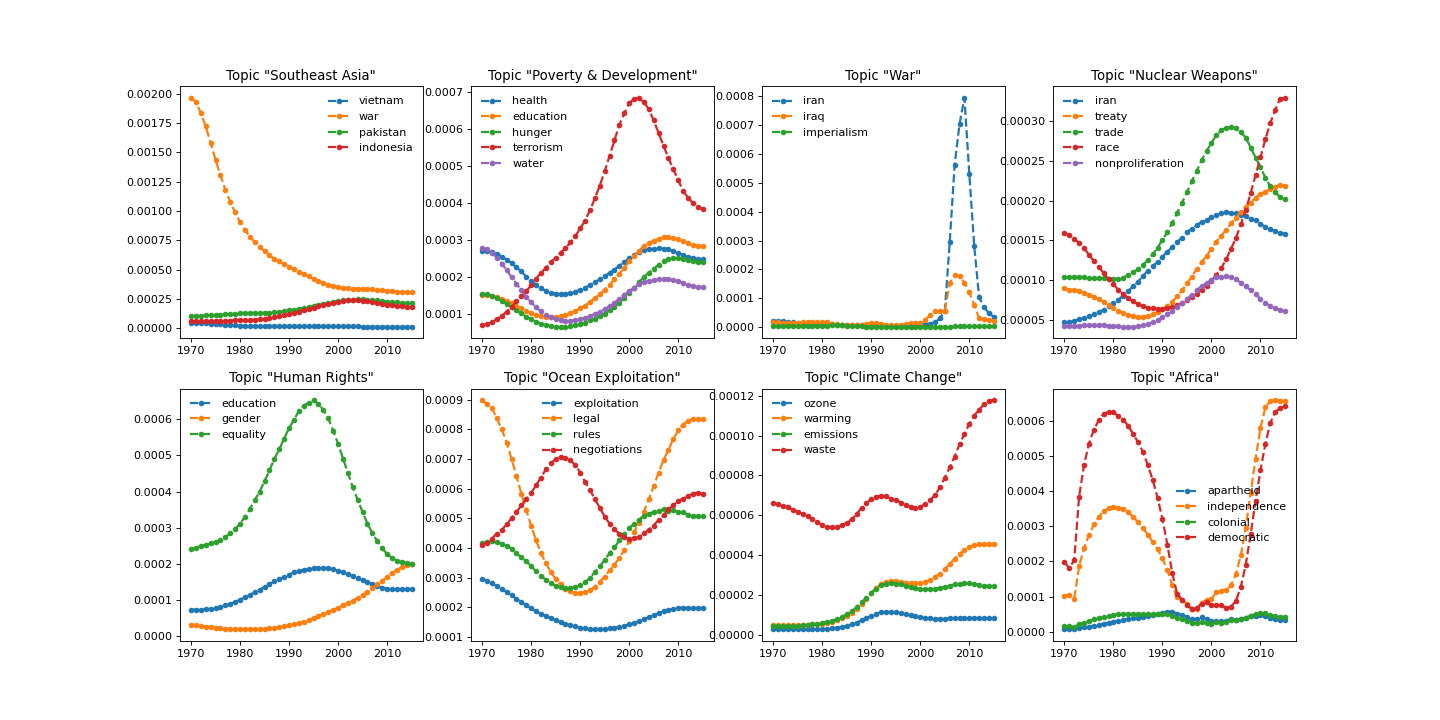
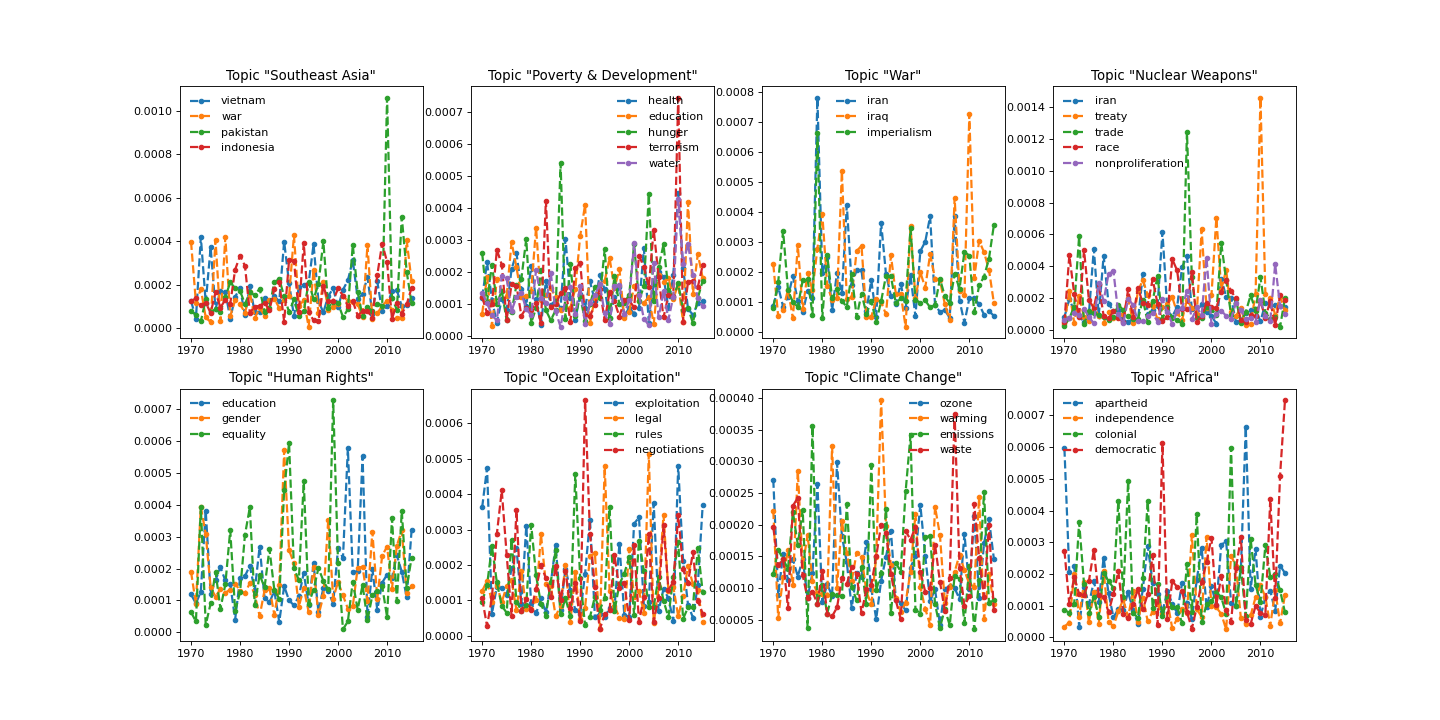
un updates

diff --git a/{DEP}plot_word_evo_un.py b/{DEP}plot_word_evo_un.py
@@ -12,7 +12,7 @@ import numpy as np
 beta = scipy.io.loadmat('./results/remoteresults/detm_un_K_50_Htheta_800_Optim_adam_Clip_0.0_ThetaAct_relu_Lr_0.0001_Bsz_1000_RhoSize_300_L_3_minDF_100_trainEmbeddings_1_beta.mat')['values'] ## K x T x V  #MODIFICATION
 print('beta: ', beta.shape)
 
-with open('data/un/split_paragraph_1/min_df_30/timestamps.pkl', 'rb') as f: #MODIFICATION 'un' -> 'data/un/split_paragraph_1'
+with open('data/un/split_paragraph_1/min_df_100/timestamps.pkl', 'rb') as f: #MODIFICATION 'un' -> 'data/un/split_paragraph_1'
     timelist = pickle.load(f)
 print('timelist: ', timelist)
 T = len(timelist)
@@ -20,19 +20,19 @@ ticks = [str(x) for x in timelist]
 print('ticks: ', ticks)
 
 ## get vocab
-data_file = 'data/un/split_paragraph_1/min_df_30' #MODIFICATION 'un' -> 'data/un/split_paragraph_1'
+data_file = 'data/un/split_paragraph_1/min_df_100' #MODIFICATION 'un' -> 'data/un/split_paragraph_1'
 vocab, train, valid, test = data.get_data(data_file, temporal=True)
 vocab_size = len(vocab)
 
 ## plot topics 
-num_words = 10 #10 -> 5
-times = [40] #40 -> 30
+num_words = 20 #10 -> 5
+times = [0, 30, 40] #40 -> 30
 num_topics = 50
 for k in range(num_topics):
     for t in times:
         gamma = beta[k, t, :]
         top_words = list(gamma.argsort()[-num_words+1:][::-1])
-        print(f"length of vocab:{0}, length of top_words:{1}".format(len(vocab), len(top_words)))
+        #print(f"length of vocab:{0}, length of top_words:{1}".format(len(vocab), len(top_words)))
         topic_words = [vocab[a] for a in top_words]
         print('Topic {} .. Time: {} ===> {}'.format(k, t, topic_words)) 
 
@@ -49,93 +49,57 @@ ax1, ax2, ax3, ax4, ax5, ax6, ax7, ax8 = axes.flatten()
 ticks = [str(x) for x in timelist]
 #plt.xticks(np.arange(T)[0::10], timelist[0::10])
 
-words_1 = ['vietnam', 'war', 'pakistan', 'indonesia']
+words_1 = ['security', 'palestinian', 'dignity', 'decades', 'led', 'population', 'neighbouring', 'sovereignty']
 tokens_1 = [vocab.index(w) for w in words_1]
-betas_1 = [beta[1, :, x] for x in tokens_1]
+betas_1 = [beta[34, :, x] for x in tokens_1]
 for i, comp in enumerate(betas_1):
     ax1.plot(range(T), comp, label=words_1[i], lw=2, linestyle='--', marker='o', markersize=4)
 ax1.legend(frameon=False)
-print('np.arange(T)[0::10]: ', np.arange(T)[0::10])
+# print('np.arange(T)[0::10]: ', np.arange(T)[0::10])
 ax1.set_xticks(np.arange(T)[0::10])
 ax1.set_xticklabels(timelist[0::10])
-ax1.set_title('Topic "Southeast Asia"', fontsize=12)
+ax1.set_title('Topic 34', fontsize=12)
 
-
-words_5 = ['health', 'education', 'hunger', 'terrorism', 'water']
-tokens_5 = [vocab.index(w) for w in words_5]
-betas_5 = [beta[5, :, x] for x in tokens_5]
-for i, comp in enumerate(betas_5):
-    ax2.plot(comp, label=words_5[i], lw=2, linestyle='--', marker='o', markersize=4)
+words_2 = ['organizations', 'international', 'world', 'country', 'rational', 'trade']
+tokens_2 = [vocab.index(w) for w in words_2]
+betas_2 = [beta[41, :, x] for x in tokens_2]
+for i, comp in enumerate(betas_2):
+    ax2.plot(range(T), comp, label=words_2[i], lw=2, linestyle='--', marker='o', markersize=4)
 ax2.legend(frameon=False)
 ax2.set_xticks(np.arange(T)[0::10])
 ax2.set_xticklabels(timelist[0::10])
-ax2.set_title('Topic "Poverty & Development"', fontsize=12)
+ax2.set_title('Topic 41', fontsize=12)
 
-
-words_11 = ['iran', 'iraq', 'imperialism']
-tokens_11 = [vocab.index(w) for w in words_11]
-betas_11 = [beta[11, :, x] for x in tokens_11]
-for i, comp in enumerate(betas_11):
-    ax3.plot(comp, label=words_11[i], lw=2, linestyle='--', marker='o', markersize=4)
+words_3 = ['weapons', 'multilateral', 'developing', 'situations', 'red', 'successful', 'withdrawal']
+tokens_3 = [vocab.index(w) for w in words_3]
+betas_3 = [beta[47, :, x] for x in tokens_3]
+for i, comp in enumerate(betas_3):
+    ax3.plot(range(T), comp, label=words_3[i], lw=2, linestyle='--', marker='o', markersize=4)
 ax3.legend(frameon=False)
 ax3.set_xticks(np.arange(T)[0::10])
 ax3.set_xticklabels(timelist[0::10])
-ax3.set_title('Topic "War"', fontsize=12)
+ax3.set_title('Topic 47', fontsize=12)
 
-
-words_13 = ['iran', 'treaty', 'trade', 'race', 'nonproliferation']
-tokens_13 = [vocab.index(w) for w in words_13]
-betas_13 = [beta[13, :, x] for x in tokens_13]
-for i, comp in enumerate(betas_13):
-    ax4.plot(comp, label=words_13[i], lw=2, linestyle='--', marker='o', markersize=4)
+words_4 = ['terrorism', 'promoting', 'plan', 'regular', 'summit', 'line', 'somalia']
+tokens_4 = [vocab.index(w) for w in words_4]
+betas_4 = [beta[49, :, x] for x in tokens_4]
+for i, comp in enumerate(betas_4):
+    ax4.plot(range(T), comp, label=words_4[i], lw=2, linestyle='--', marker='o', markersize=4)
 ax4.legend(frameon=False)
 ax4.set_xticks(np.arange(T)[0::10])
 ax4.set_xticklabels(timelist[0::10])
-ax4.set_title('Topic "Nuclear Weapons"', fontsize=12)
+ax4.set_title('Topic 49', fontsize=12)
 
-
-#words_28 = ['men', 'equality', 'gender', 'female', 'education']
-words_28 = ['education', 'gender', 'equality']
-tokens_28 = [vocab.index(w) for w in words_28]
-betas_28 = [beta[28, :, x] for x in tokens_28]
-for i, comp in enumerate(betas_28):
-    ax5.plot(comp, label=words_28[i], lw=2, linestyle='--', marker='o', markersize=4)
+words_5 = ['mankind', 'bold', 'accordance', 'contribution', 'middle', 'dialogue']
+tokens_5 = [vocab.index(w) for w in words_5]
+betas_5 = [beta[34, :, x] for x in tokens_5]
+for i, comp in enumerate(betas_5):
+    ax5.plot(range(T), comp, label=words_5[i], lw=2, linestyle='--', marker='o', markersize=4)
 ax5.legend(frameon=False)
 ax5.set_xticks(np.arange(T)[0::10])
 ax5.set_xticklabels(timelist[0::10])
-ax5.set_title('Topic "Human Rights"', fontsize=12)
+ax5.set_title('Topic 34', fontsize=12)
 
-
-words_30 = ['exploitation', 'legal', 'rules', 'negotiations']
-tokens_30 = [vocab.index(w) for w in words_30]
-betas_30 = [beta[30, :, x] for x in tokens_30]
-for i, comp in enumerate(betas_30):
-    ax6.plot(comp, label=words_30[i], lw=2, linestyle='--', marker='o', markersize=4)
-ax6.legend(frameon=False)
-ax6.set_xticks(np.arange(T)[0::10])
-ax6.set_xticklabels(timelist[0::10])
-ax6.set_title('Topic "Ocean Exploitation"', fontsize=12)
-
-
-words_46 = ['ozone', 'warming', 'emissions', 'waste']
-tokens_46 = [vocab.index(w) for w in words_46]
-betas_46 = [beta[46, :, x] for x in tokens_46]
-for i, comp in enumerate(betas_46):
-    ax7.plot(comp, label=words_46[i], lw=2, linestyle='--', marker='o', markersize=4)
-ax7.legend(frameon=False)
-ax7.set_xticks(np.arange(T)[0::10])
-ax7.set_xticklabels(timelist[0::10])
-ax7.set_title('Topic "Climate Change"', fontsize=12)
-
-
-words_49 = ['apartheid', 'independence', 'colonial', 'democratic']
-tokens_49 = [vocab.index(w) for w in words_49]
-betas_49 = [beta[49, :, x] for x in tokens_49]
-for i, comp in enumerate(betas_49):
-    ax8.plot(comp, label=words_49[i], lw=2, linestyle='--', marker='o', markersize=4)
-ax8.legend(frameon=False)
-ax8.set_title('Topic "Africa"', fontsize=12)
-ax8.set_xticks(np.arange(T)[0::10])
-ax8.set_xticklabels(timelist[0::10])
-plt.savefig('word_evolution.png')
 plt.show()
+
+

diff --git a/plot_topics.py b/plot_topics.py
@@ -28,7 +28,7 @@ CLI.add_argument(
     "--corpus",
     type=str,
     default="JMR",
-    help="Corpus to use (JM or JMR)"
+    help="Corpus to use (JM or JMR or UN)"
 )
 CLI.add_argument(
     "--dim",
@@ -46,18 +46,23 @@ CLI.add_argument(
 
 args = CLI.parse_args()
 
-use = 'JM' if args.corpus == 'JM' else 'JMR'
+use =  args.corpus
 
 if use == 'JM':
     beta = scipy.io.loadmat('./results/detm_jm_K_30_Htheta_800_Optim_adam_Clip_0.0_ThetaAct_relu_Lr_0.001_Bsz_10_RhoSize_300_L_3_minDF_10_trainEmbeddings_1_beta.mat')['values']
     timestamps = 'data/JM/split_paragraph_False/min_df_10/timestamps.pkl'
     data_file = 'data/JM/split_paragraph_False/min_df_10'
     shift_value = 1936
-else:
+elif use == 'JMR':
     beta = scipy.io.loadmat('./results/detm_jmr_K_30_Htheta_800_Optim_adam_Clip_0.0_ThetaAct_relu_Lr_0.001_Bsz_10_RhoSize_300_L_3_minDF_10_trainEmbeddings_1_beta.mat')['values']
     timestamps = 'data/JMR/split_paragraph_False/min_df_10/timestamps.pkl'
     data_file = 'data/JMR/split_paragraph_False/min_df_10'
     shift_value = 1963
+else:
+    beta = scipy.io.loadmat('./results/remoteresults/detm_un_K_50_Htheta_800_Optim_adam_Clip_0.0_ThetaAct_relu_Lr_0.0001_Bsz_1000_RhoSize_300_L_3_minDF_100_trainEmbeddings_1_beta.mat')['values']
+    timestamps = 'data/un/split_paragraph_1/min_df_100/timestamps.pkl'
+    data_file = 'data/un/split_paragraph_1/min_df_100'
+    shift_value = 0
 print('beta: ', beta.shape)
 
 # Load timestamps

diff --git a/topic_travel.py b/topic_travel.py
@@ -36,8 +36,10 @@ method = args.method
 
 if corp == 'JMR':
     beta = scipy.io.loadmat('./results/detm_jmr_K_30_Htheta_800_Optim_adam_Clip_0.0_ThetaAct_relu_Lr_0.001_Bsz_10_RhoSize_300_L_3_minDF_10_trainEmbeddings_1_beta.mat')['values']
-else:
+elif corp == 'JM':
     beta = scipy.io.loadmat('./results/detm_jm_K_30_Htheta_800_Optim_adam_Clip_0.0_ThetaAct_relu_Lr_0.001_Bsz_10_RhoSize_300_L_3_minDF_10_trainEmbeddings_1_beta.mat')['values']
+else:
+    beta = scipy.io.loadmat('./results/remoteresults/detm_un_K_50_Htheta_800_Optim_adam_Clip_0.0_ThetaAct_relu_Lr_0.0001_Bsz_1000_RhoSize_300_L_3_minDF_100_trainEmbeddings_1_beta.mat')['values']
 # print('beta: ', beta.shape)
 
 # Assuming `beta` is already loaded as a K x T x V matrix (Topics x Time x Vocabulary)

diff --git a/README.md b/README.md
@@ -14,6 +14,8 @@ https://github.com/AWalnutTree/JM_Corpus
 
 
 
+
+
 <!-- Current goals:
 
 Implement split paragraphs true setting
